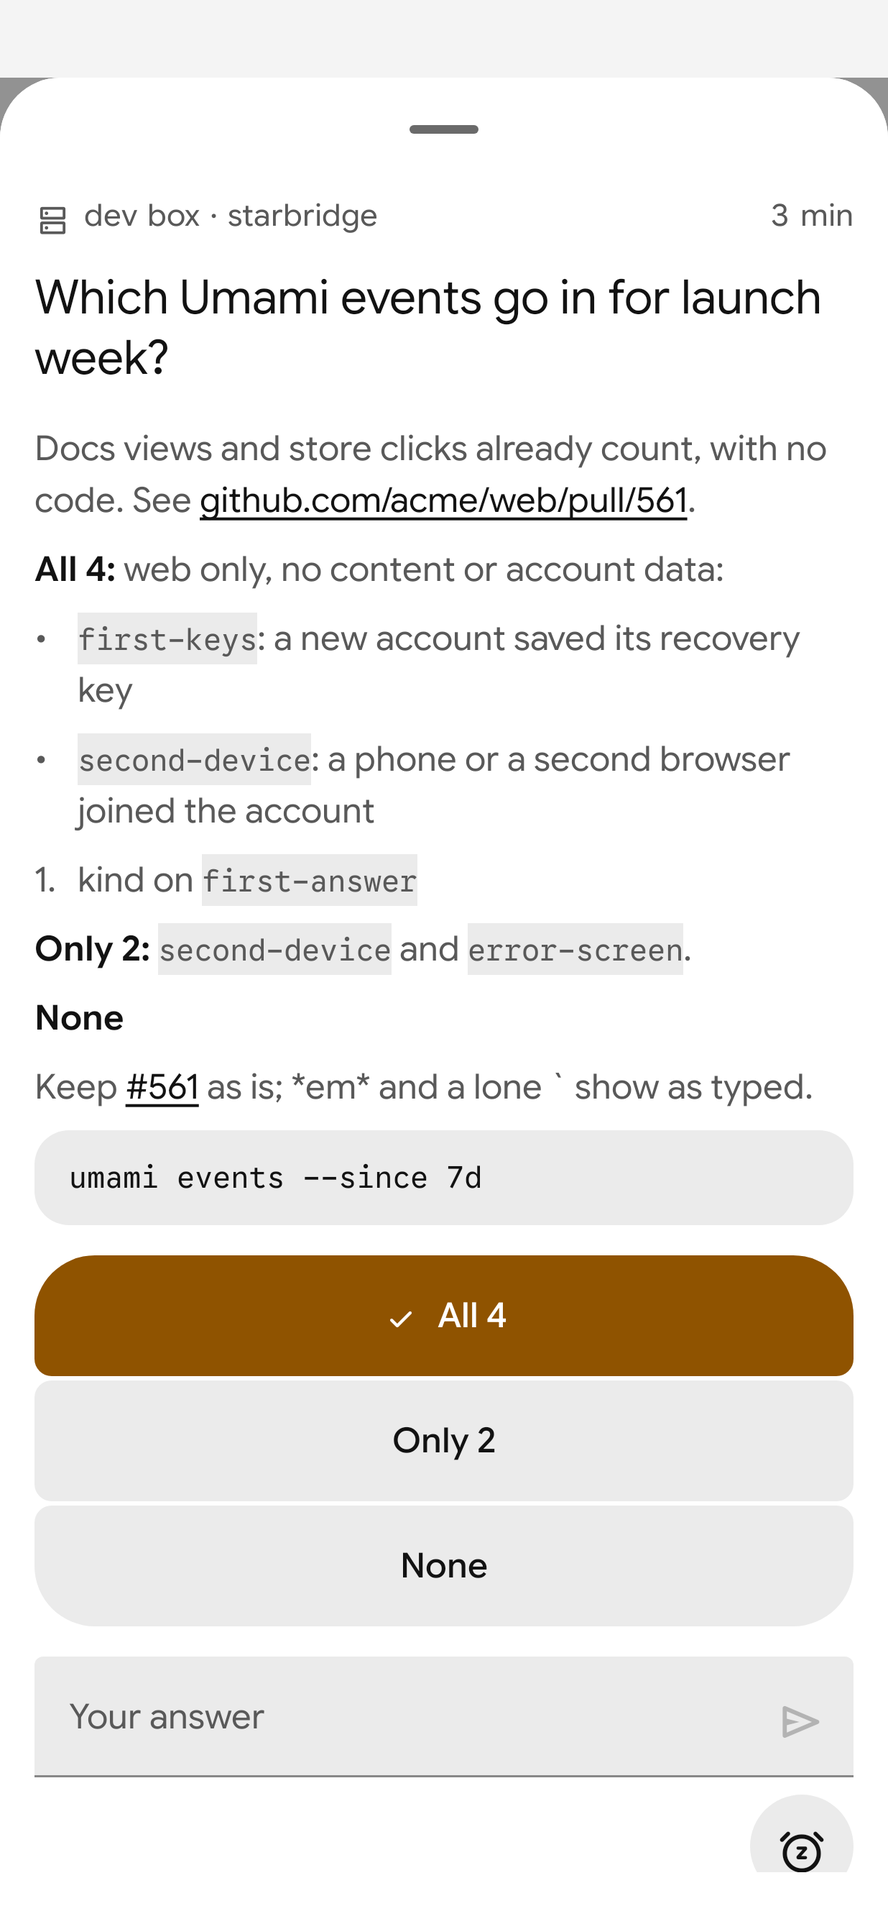
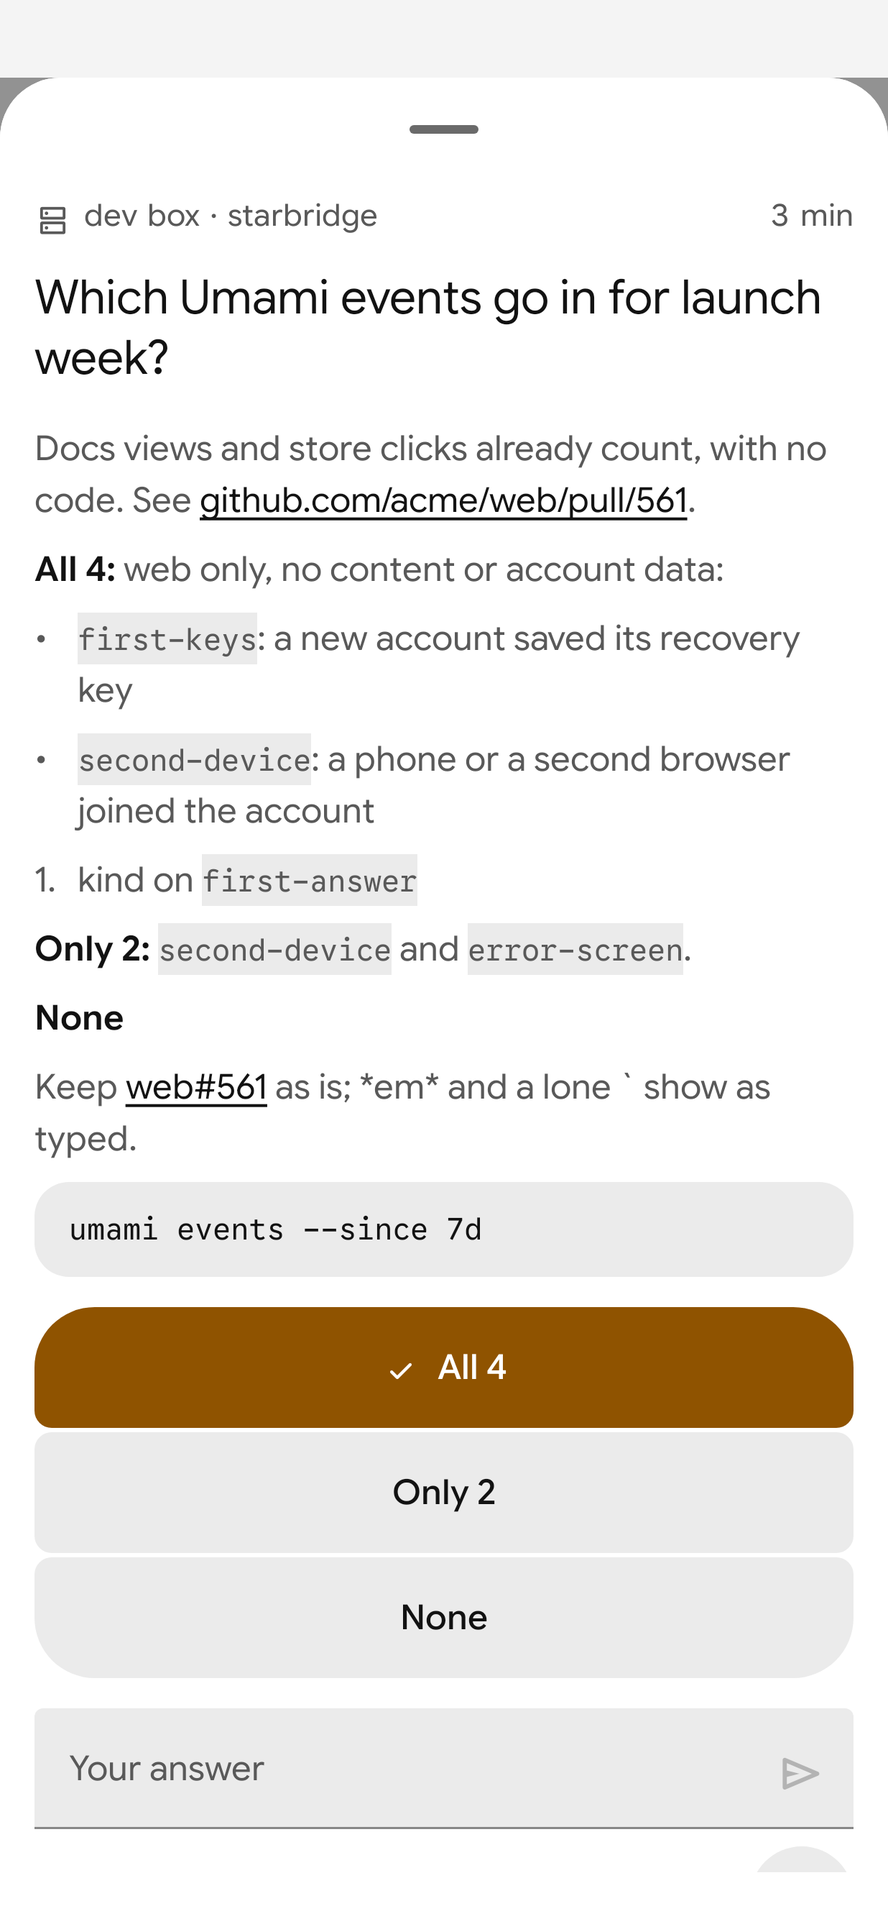
Links: an agent's words show only on GitHub and Claude artifacts (#2204)
* Links: an agent's words show only on GitHub and Claude artifacts; other links read as their host (#2203)

* Tests: the Android sheet screenshot and iPhone history read a link by the shared rule (#2203)

diff --git a/packages/protocol/scripts/gen-vectors.ts b/packages/protocol/scripts/gen-vectors.ts
@@ -1647,6 +1647,11 @@ export async function buildVectors(): Promise<Record<string, unknown>> {
       "Markdown link",
       "Read [the PR](https://github.com/acme/shop/pull/41) first; [no](javascript:x) stays.",
     ],
+    [
+      "a link's words show only on GitHub and a Claude artifact",
+      "[github.com/acme/app/pull/12](https://evil.example/x) and [the plan](https://claude.ai/artifact/abc) and [the wiki](https://github.com/acme/app/wiki)",
+    ],
+    ["http is no link", "[docs](http://docs.example/a) and http://docs.example/b stay as typed."],
     ["fenced code", "Before:\n```bash\n  make build\n\n  make e2e\n```\nAfter."],
     ["unclosed fence", "Error:\n```\nTypeError: x is undefined"],
     ["empty fence", "```\n```\nText"],
@@ -1900,10 +1905,10 @@ export async function buildVectors(): Promise<Record<string, unknown>> {
       expect: { label: "example.com" },
     },
     {
-      name: "another host with a title",
+      name: "another host with a title: host and path",
       url: "https://play.google.com/console/u/1/developers/1/app/2/publishing",
       title: "Play Console",
-      expect: { label: "Play Console · play.google.com" },
+      expect: { label: "play.google.com/console/u/1/developers/…" },
     },
     {
       name: "a long path is clipped",
@@ -2025,24 +2030,30 @@ export async function buildVectors(): Promise<Record<string, unknown>> {
       expect: { icon: "pull", label: "i#1" },
     },
     { name: "empty host: as written", url: "https://%", expect: { label: "https://%" } },
-    // A title on another host than GitHub's is followed by the host (#1722).
+    // A title shows only on GitHub and a Claude artifact; another host shows itself (#1722, #2203).
     {
       name: "a GitHub reference as the title of another host",
       url: "https://evil.example/pull/123",
       title: "starbridge#123",
-      expect: { label: "starbridge#123 · evil.example" },
+      expect: { label: "evil.example/pull/123" },
     },
     {
-      name: "a long title gives way to the host",
-      url: "https://docs.example.com/guide",
-      title: "A very long title that would push the host out of the chip",
-      expect: { label: "A very long title th… · docs.example.com" },
+      name: "a host dressed as GitHub's shows whole",
+      url: "https://github.com.evil.example/T0mSIlver/starbridge/pull/1",
+      title: "#1",
+      expect: { label: "github.com.evil.example/T0mSIlver/starb…" },
     },
     {
-      name: "a long host keeps its end",
-      url: "https://github.com.a-very-long-subdomain-chain.evil.example/x",
-      title: "Docs",
-      expect: { label: "Docs · …-subdomain-chain.evil.example" },
+      name: "a GitHub page's title with a bidi override gives way to its path",
+      url: "https://github.com/T0mSIlver/starbridge/wiki",
+      title: "Release notes\u202e",
+      expect: { icon: "github", label: "T0mSIlver/starbridge/wiki" },
+    },
+    {
+      name: "an artifact's title with a zero-width space gives way",
+      url: "https://claude.ai/artifact/abc",
+      title: "Plan\u200b",
+      expect: { icon: "artifact", label: "Claude artifact" },
     },
     {
       name: "a title with a bidi override gives way to host and path",

diff --git a/ios/StarbridgeProtocol/Sources/StarbridgeProtocol/Links.swift b/ios/StarbridgeProtocol/Sources/StarbridgeProtocol/Links.swift
@@ -21,11 +21,12 @@ public struct LinkChip: Equatable, Sendable {
 /**
  * A link's chip (#971, #1577). A GitHub pull request, issue or discussion reads "#123", a release
  * its tag, a commit its short hash, each led by the repo when it isn't `project`, the session's;
- * the icon says what the number is, so the agent's title gives way. Any other link reads as its
- * title, else: a GitHub file its name, a run "Actions run", another GitHub page its path, a
- * Claude artifact "Claude artifact", anything else its host and path. A title on any other
- * host than GitHub's and a Claude artifact's, whose icons name the site, is followed by the
- * host, so an agent cannot dress another site as a GitHub reference (#1722); a link that can't be read shows as written, whatever its title.
+ * the icon says what the number is, so the agent's title gives way. Another GitHub page and a
+ * Claude artifact read as the agent's title, else a GitHub file its name, a run "Actions run",
+ * another GitHub page its path, an artifact "Claude artifact". Any other host shows its host and
+ * path, never the agent's title: only those two sites, whose icons name them, get a chip in the
+ * agent's words, so no title dresses another site as one of them (#1722, #2203). A title with
+ * hidden or reordering characters counts as none. A link that can't be read shows as written.
  */
 public func linkChip(url: String, title: String?, project: String = "") -> LinkChip {
     guard let parts = parseURL(url) else { return LinkChip(icon: nil, label: clip(url)) }
@@ -35,26 +36,13 @@ public func linkChip(url: String, title: String?, project: String = "") -> LinkC
         let sep = ref.hasPrefix("#") ? "" : " "
         return LinkChip(icon: gh.icon, label: clip(same ? ref : gh.repo + sep + ref))
     }
-    if let gh { return LinkChip(icon: gh.icon, label: title ?? clip(gh.text)) }
+    let shown = title.flatMap { $0.isEmpty || isHidden($0) ? nil : $0 }
+    if let gh { return LinkChip(icon: gh.icon, label: shown ?? clip(gh.text)) }
     let host = parts.host.hasPrefix("www.") ? String(parts.host.dropFirst(4)) : parts.host
-    let titled = title.map { isHidden($0) ? "" : withHost($0, host) } ?? ""
     if parts.host == "claude.ai" && isArtifact(parts.path) {
-        return LinkChip(icon: .artifact, label: title ?? "Claude artifact")
+        return LinkChip(icon: .artifact, label: shown ?? "Claude artifact")
     }
-    return LinkChip(
-        icon: nil, label: titled.isEmpty ? clip(host + (parts.path == "/" ? "" : parts.path)) : titled)
-}
-
-/**
- * "Title · host" in 40 code points: the host keeps its end, which names the site, and at most 30
- * points; the title takes the rest. An empty title gives "", and the chip falls back to its own
- * text.
- */
-private func withHost(_ title: String, _ host: String) -> String {
-    let points = Array(host.unicodeScalars)
-    let shown = points.count > 30 ? "…" + string(points.suffix(29)) : host
-    let room = 40 - 3 - shown.unicodeScalars.count
-    return title.isEmpty ? "" : clip(title, room) + " · " + shown
+    return LinkChip(icon: nil, label: clip(host + (parts.path == "/" ? "" : parts.path)))
 }
 
 private func isHidden(_ text: String) -> Bool {

diff --git a/android/app/src/main/kotlin/dev/starbridge/app/protocol/LinkChip.kt b/android/app/src/main/kotlin/dev/starbridge/app/protocol/LinkChip.kt
@@ -16,11 +16,12 @@ data class LinkChip(val icon: LinkIcon?, val label: String)
 /**
  * A link's chip (#971, #1577). A GitHub pull request, issue or discussion reads "#123", a release
  * its tag, a commit its short hash, each led by the repo when it isn't [project], the session's;
- * the icon says what the number is, so the agent's title gives way. Any other link reads as its
- * title, else: a GitHub file its name, a run "Actions run", another GitHub page its path, a
- * Claude artifact "Claude artifact", anything else its host and path. A title on any other
- * host than GitHub's and a Claude artifact's, whose icons name the site, is followed by the
- * host, so an agent cannot dress another site as a GitHub reference (#1722); a link that can't be read shows as written, whatever its title.
+ * the icon says what the number is, so the agent's title gives way. Another GitHub page and a
+ * Claude artifact read as the agent's title, else a GitHub file its name, a run "Actions run",
+ * another GitHub page its path, an artifact "Claude artifact". Any other host shows its host and
+ * path, never the agent's title: only those two sites, whose icons name them, get a chip in the
+ * agent's words, so no title dresses another site as one of them (#1722, #2203). A title with
+ * hidden or reordering characters counts as none. A link that can't be read shows as written.
  */
 fun linkChip(url: String, title: String?, project: String = ""): LinkChip {
     val parts = parseUrl(url) ?: return LinkChip(null, clip(url))
@@ -30,23 +31,11 @@ fun linkChip(url: String, title: String?, project: String = ""): LinkChip {
         val sep = if (gh.ref.startsWith("#")) "" else " "
         return LinkChip(gh.icon, clip(if (same) gh.ref else gh.repo + sep + gh.ref))
     }
-    if (gh != null) return LinkChip(gh.icon, title ?: clip(gh.text))
+    val shown = title?.takeIf { it.isNotEmpty() && !hidden(it) }
+    if (gh != null) return LinkChip(gh.icon, shown ?: clip(gh.text))
     val host = parts.host.removePrefix("www.")
-    val titled = if (title != null && !hidden(title)) withHost(title, host) else ""
-    if (parts.host == "claude.ai" && ARTIFACT.matches(parts.path)) return LinkChip(LinkIcon.Artifact, title ?: "Claude artifact")
-    return LinkChip(null, titled.ifEmpty { clip(host + if (parts.path == "/") "" else parts.path) })
-}
-
-/**
- * "Title · host" in 40 code points: the host keeps its end, which names the site, and at most 30
- * points; the title takes the rest. An empty title gives "", and the chip falls back to its own
- * text.
- */
-private fun withHost(title: String, host: String): String {
-    val points = host.codePointCount(0, host.length)
-    val shown = if (points > 30) "…" + host.substring(host.offsetByCodePoints(0, points - 29)) else host
-    val room = 40 - 3 - shown.codePointCount(0, shown.length)
-    return if (title.isEmpty()) "" else clip(title, room) + " · " + shown
+    if (parts.host == "claude.ai" && ARTIFACT.matches(parts.path)) return LinkChip(LinkIcon.Artifact, shown ?: "Claude artifact")
+    return LinkChip(null, clip(host + if (parts.path == "/") "" else parts.path))
 }
 
 private val GITHUB_HOSTS = setOf("github.com", "www.github.com")

diff --git a/packages/protocol/src/links.ts b/packages/protocol/src/links.ts
@@ -20,11 +20,12 @@ export type LinkChip = { icon?: LinkIcon; label: string };
 /**
  * A link's chip (#971, #1577). A GitHub pull request, issue or discussion reads "#123", a release
  * its tag, a commit its short hash, each led by the repo when it isn't `project`, the session's;
- * the icon says what the number is, so the agent's title gives way. Any other link reads as its
- * title, else: a GitHub file its name, a run "Actions run", another GitHub page its path, a
- * Claude artifact "Claude artifact", anything else its host and path. A title on any other
- * host than GitHub's and a Claude artifact's, whose icons name the site, is followed by the
- * host, so an agent cannot dress another site as a GitHub reference (#1722); a link that can't be read shows as written, whatever its title.
+ * the icon says what the number is, so the agent's title gives way. Another GitHub page and a
+ * Claude artifact read as the agent's title, else a GitHub file its name, a run "Actions run",
+ * another GitHub page its path, an artifact "Claude artifact". Any other host shows its host and
+ * path, never the agent's title: only those two sites, whose icons name them, get a chip in the
+ * agent's words, so no title dresses another site as one of them (#1722, #2203). A title with
+ * hidden or reordering characters counts as none. A link that can't be read shows as written.
  */
 export function linkChip(link: { url: string; title?: string }, project = ""): LinkChip {
   const url = parseUrl(link.url);
@@ -35,24 +36,12 @@ export function linkChip(link: { url: string; title?: string }, project = ""): L
     const sep = gh.ref.startsWith("#") ? "" : " ";
     return { icon: gh.icon, label: clip(same ? gh.ref : `${gh.repo}${sep}${gh.ref}`) };
   }
-  if (gh) return { icon: gh.icon, label: link.title ?? clip(gh.text) };
+  const title = link.title && !hidden(link.title) ? link.title : undefined;
+  if (gh) return { icon: gh.icon, label: title ?? clip(gh.text) };
   const host = url.host.replace(/^www\./, "");
-  const titled = link.title !== undefined && !hidden(link.title) ? withHost(link.title, host) : "";
   if (url.host === "claude.ai" && ARTIFACT.test(url.path))
-    return { icon: "artifact", label: link.title ?? "Claude artifact" };
-  return { label: titled || clip(`${host}${url.path === "/" ? "" : url.path}`) };
-}
-
-/**
- * "Title · host" in 40 code points: the host keeps its end, which names the site, and at most 30
- * points; the title takes the rest. A title with hidden or reordering characters, or none, gives
- * "", and the chip falls back to its own text.
- */
-function withHost(title: string, host: string): string {
-  const points = Array.from(host);
-  const shown = points.length > 30 ? `…${points.slice(-29).join("")}` : host;
-  const room = 40 - 3 - Array.from(shown).length;
-  return title ? `${clip(title, room)} · ${shown}` : "";
+    return { icon: "artifact", label: title ?? "Claude artifact" };
+  return { label: clip(`${host}${url.path === "/" ? "" : url.path}`) };
 }
 
 const GITHUB_HOSTS = new Set(["github.com", "www.github.com"]);

diff --git a/packages/protocol/src/context.ts b/packages/protocol/src/context.ts
@@ -1,7 +1,10 @@
 // A decision's context as every client shows it (#969): the small Markdown subset agents may rely
 // on, parsed once here and ported to Kotlin, with packages/protocol/vectors/context.json keeping
-// the two in step. Anything outside the subset shows as typed. It imports nothing, so the web's
-// service worker takes it from "@starbridge/protocol/context" without the crypto.
+// the two in step. Anything outside the subset shows as typed. It imports only links.ts, which
+// imports nothing, so the web's service worker takes it from "@starbridge/protocol/context"
+// without the crypto.
+
+import { linkChip } from "./links";
 
 /** A run of text with one style: code, bold, a link, or plain. Bold may wrap code or a link. */
 export type Span = { text: string; code?: true; bold?: true; href?: string };
@@ -16,9 +19,10 @@ export type Block =
   | { kind: "number"; marker: string; spans: Span[] }
   | { kind: "code"; text: string };
 
-// Leftmost match wins; at one position, code before a link before bold before a bare URL.
+// Leftmost match wins; at one position, code before a link before bold before a bare URL. Links
+// are https only, as link chips are.
 const INLINE =
-  /`([^`\n]+)`|\[([^\]\n]+)\]\((https?:\/\/[^\s)]+)\)|\*\*(?=\S)([^\n]*?\S)\*\*|(https?:\/\/[^\s<>]+)/g;
+  /`([^`\n]+)`|\[([^\]\n]+)\]\((https:\/\/[^\s)]+)\)|\*\*(?=\S)([^\n]*?\S)\*\*|(https:\/\/[^\s<>]+)/g;
 // What ends a sentence rather than a URL: "see https://x.dev/a." links https://x.dev/a.
 const URL_TAIL = /[.,;:!?'")\]]+$/;
 
@@ -39,12 +43,15 @@ function inline(text: string, bold = false): Span[] {
     let end = start + m[0].length;
     push({ text: text.slice(at, start) });
     if (m[1] !== undefined) push({ text: m[1], code: true });
-    else if (m[2] !== undefined && m[3] !== undefined) push({ text: m[2], href: m[3] });
+    // The agent's words show only where a link chip would show them: on GitHub and a Claude
+    // artifact. Elsewhere the link reads as its host and path, so no label hides where it goes.
+    else if (m[2] !== undefined && m[3] !== undefined)
+      push({ text: linkChip({ url: m[3], title: m[2] }).label, href: m[3] });
     else if (m[4] !== undefined) for (const s of inline(m[4], true)) push(s);
     else {
       const url = m[0].replace(URL_TAIL, "");
       end = start + url.length;
-      push({ text: url.replace(/^https?:\/\//, ""), href: url });
+      push({ text: url.replace(/^https:\/\//, ""), href: url });
     }
     // A trimmed tail goes back to the text after it.
     at = end;

diff --git a/ios/StarbridgeProtocol/Sources/StarbridgeProtocol/Context.swift b/ios/StarbridgeProtocol/Sources/StarbridgeProtocol/Context.swift
@@ -61,9 +61,8 @@ private func hasPrefix(_ s: Scalars, _ at: Int, _ p: String) -> Bool {
 
 /** "http://" or "https://" at `at`: its length, or nil. */
 private func scheme(_ s: Scalars, _ at: Int) -> Int? {
-    if hasPrefix(s, at, "https://") { return 8 }
-    if hasPrefix(s, at, "http://") { return 7 }
-    return nil
+    // https only, as link chips are.
+    hasPrefix(s, at, "https://") ? 8 : nil
 }
 
 private enum Inline {
@@ -84,7 +83,7 @@ private func match(_ s: Scalars, _ i: Int) -> (Inline, Int)? {
         while j < s.count, s[j] != "`", s[j] != "\n" { j += 1 }
         if j > i + 1, j < s.count, s[j] == "`" { return (.code(string(s[i + 1..<j])), j + 1) }
     }
-    // \[([^\]\n]+)\]\((https?:\/\/[^\s)]+)\)
+    // \[([^\]\n]+)\]\((https:\/\/[^\s)]+)\)
     if s[i] == "[" {
         var j = i + 1
         while j < s.count, s[j] != "]", s[j] != "\n" { j += 1 }
@@ -103,7 +102,7 @@ private func match(_ s: Scalars, _ i: Int) -> (Inline, Int)? {
             k += 1
         }
     }
-    // https?:\/\/[^\s<>]+
+    // https:\/\/[^\s<>]+
     if let n = scheme(s, i) {
         var k = i + n
         while k < s.count, !isSpace(s[k]), s[k] != "<", s[k] != ">" { k += 1 }
@@ -136,7 +135,8 @@ private func inline(_ text: String, bold: Bool = false) -> [Span] {
         push(Span(string(s[at..<i])))
         switch m {
         case .code(let t): push(Span(t, code: true))
-        case .link(let t, let href): push(Span(t, href: href))
+        // The agent's words show only where a link chip would: on GitHub and a Claude artifact.
+        case .link(let t, let href): push(Span(linkChip(url: href, title: t).label, href: href))
         case .bold(let inner): inline(inner, bold: true).forEach(push)
         case .url(let raw):
             // What ends a sentence rather than a URL: "see https://x.dev/a." links https://x.dev/a.

diff --git a/android/app/src/main/kotlin/dev/starbridge/app/protocol/ContextText.kt b/android/app/src/main/kotlin/dev/starbridge/app/protocol/ContextText.kt
@@ -19,7 +19,7 @@ internal const val WS = "\\t\\n\\u000B\\f\\r \\u00A0\\u1680\\u2000-\\u200A\\u202
 
 // Leftmost match wins; at one position, code before a link before bold before a bare URL.
 private val INLINE = Regex(
-    "`([^`\\n]+)`|\\[([^\\]\\n]+)\\]\\((https?://[^$WS)]+)\\)|\\*\\*(?=[^$WS])([^\\n]*?[^$WS])\\*\\*|(https?://[^$WS<>]+)",
+    "`([^`\\n]+)`|\\[([^\\]\\n]+)\\]\\((https://[^$WS)]+)\\)|\\*\\*(?=[^$WS])([^\\n]*?[^$WS])\\*\\*|(https://[^$WS<>]+)",
 )
 // JavaScript's `.`: anything but its four line terminators; Java's also stops at U+0085.
 private const val DOT = "[^\\n\\r\\u2028\\u2029]"
@@ -48,12 +48,13 @@ private fun inline(text: String, bold: Boolean = false): List<Span> {
         val g = m.groups
         when {
             g[1] != null -> push(Span(g[1]!!.value, code = true))
-            g[2] != null && g[3] != null -> push(Span(g[2]!!.value, href = g[3]!!.value))
+            // The agent's words show only where a link chip would: on GitHub and a Claude artifact.
+            g[2] != null && g[3] != null -> push(Span(linkChip(g[3]!!.value, g[2]!!.value).label, href = g[3]!!.value))
             g[4] != null -> inline(g[4]!!.value, bold = true).forEach(::push)
             else -> {
                 val url = m.value.replace(URL_TAIL, "")
                 end = start + url.length
-                push(Span(url.replaceFirst(Regex("^https?://"), ""), href = url))
+                push(Span(url.replaceFirst(Regex("^https://"), ""), href = url))
             }
         }
         // A trimmed tail goes back to the text after it.

diff --git a/web/src/lib/outcome.test.ts b/web/src/lib/outcome.test.ts
@@ -1,6 +1,6 @@
 import { expect, test } from "bun:test";
 import type { Settled } from "@starbridge/protocol";
-import { promptOutcome } from "./outcome";
+import { answerPlace, promptOutcome } from "./outcome";
 import type { PromptItem } from "./types";
 
 const prompt = (more: Partial<PromptItem>) =>
@@ -32,4 +32,14 @@ test("a prompt says how and where it was answered", () => {
       name,
     ),
   ).toEqual({ outcome: "Timed out: left to the keyboard", by: "" });
+});
+
+test("Answer in shows the agent's title only on GitHub and a Claude artifact", () => {
+  expect(answerPlace({ url: "https://evil.example/doc", title: "Design doc" })).toBe(
+    "evil.example/doc",
+  );
+  expect(answerPlace({ url: "https://claude.ai/artifact/abc", title: "Design doc" })).toBe(
+    "Design doc",
+  );
+  expect(answerPlace({ url: "https://claude.ai/artifact/abc" })).toBe("the artifact");
 });

diff --git a/web/src/lib/outcome.ts b/web/src/lib/outcome.ts
@@ -1,11 +1,14 @@
 import { type DecisionLink, linkChip } from "@starbridge/protocol";
 import type { Decision, InboxItem, PromptItem, Reply } from "./types";
 
-/** Where the owner answers a decision with `answerIn`: "the artifact" for a Claude one. */
+/**
+ * Where the owner answers a decision with `answerIn`: its link chip's text, so the agent's title
+ * shows only on GitHub and a Claude artifact, else the host and path; "the artifact" for an
+ * untitled Claude one.
+ */
 export function answerPlace(link: DecisionLink): string {
-  if (link.title) return link.title;
   const chip = linkChip(link);
-  return chip.icon === "artifact" ? "the artifact" : chip.label;
+  return chip.icon === "artifact" && chip.label === "Claude artifact" ? "the artifact" : chip.label;
 }
 
 /** When the decision stopped waiting for the owner: answered, or settled by its agent. */

diff --git a/ios/StarbridgeTests/HistoryTests.swift b/ios/StarbridgeTests/HistoryTests.swift
@@ -23,6 +23,7 @@ final class HistoryTests: XCTestCase {
         let store = Store(vault: MemoryVault(), disk: Disk(url: dir.appendingPathComponent("saved.json")), deviceName: "Test iPhone")
         XCTAssertEqual(HistoryText.how(try settledElsewhere([:]), store), "Answered · at the keyboard")
         let paged = try settledElsewhere(["answerIn": ["url": "https://example.test/review", "title": "the review page"]])
-        XCTAssertEqual(HistoryText.how(paged, store), "Answered in the review page · by the agent")
+        // Another host than GitHub or a Claude artifact reads as itself, never the agent's title (#2203).
+        XCTAssertEqual(HistoryText.how(paged, store), "Answered in example.test/review · by the agent")
     }
 }

diff --git a/android/app/src/main/kotlin/dev/starbridge/app/data/Images.kt b/android/app/src/main/kotlin/dev/starbridge/app/data/Images.kt
@@ -49,8 +49,9 @@ fun Link.label(project: String = ""): String = linkChip(url, title, project).lab
 
 /** Where the owner answers a decision with `answerIn`: "the artifact" for a Claude one. */
 fun Link.place(): String {
+    // The chip's text: the agent's title only on GitHub and a Claude artifact, as web's answerPlace.
     val chip = linkChip(url, title)
-    return title ?: if (chip.icon == LinkIcon.Artifact) "the artifact" else chip.label
+    return if (chip.icon == LinkIcon.Artifact && chip.label == "Claude artifact") "the artifact" else chip.label
 }
 
 private const val CLAUDE_APP = "com.anthropic.claude"

diff --git a/ios/Starbridge/Data/Notify.swift b/ios/Starbridge/Data/Notify.swift
@@ -118,7 +118,8 @@ enum Notify {
     /** Where the owner answers a decision with `answerIn`: "the artifact" for a Claude one, as on Android and the web. */
     static func place(_ page: DecisionLink) -> String {
         let chip = linkChip(url: page.url, title: page.title)
-        return page.title ?? (chip.icon == .artifact ? "the artifact" : chip.label)
+        // The chip's text: the agent's title only on GitHub and a Claude artifact, as web's answerPlace.
+        return chip.icon == .artifact && chip.label == "Claude artifact" ? "the artifact" : chip.label
     }
 
     /**
